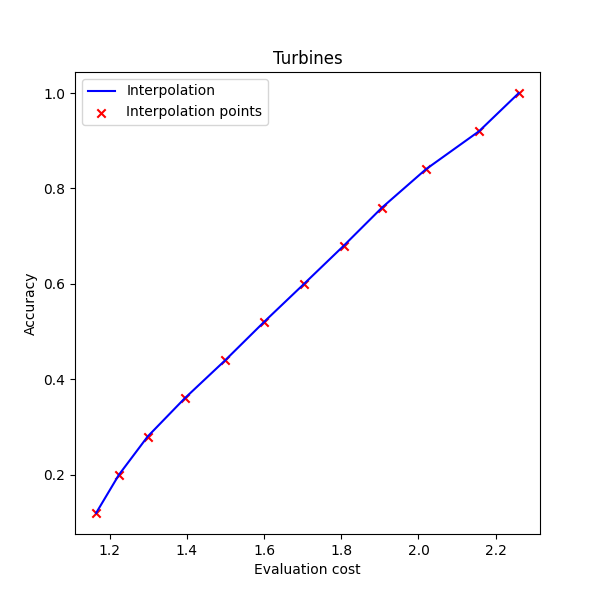
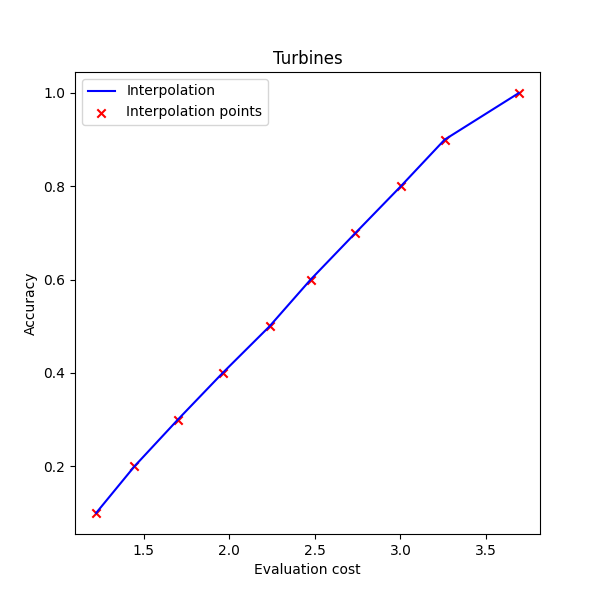
Update interpolation code and correct calculation of frequencies and sample sizes for bisection

diff --git a/experimentScripts_general/sample_size_bisection_method.py b/experimentScripts_general/sample_size_bisection_method.py
@@ -1,26 +1,30 @@
-# Mediante este scrip se calcula el tamaño de muestra de la poblacion que se debera tener en cuenta
-# a la hora de aplicar el metodo de biseccion en los heuristicos diseñados para Symbolic Regressor,
-# WindFLO, MuJoCo y Turbines. Al mismo tiempo, se indica con que frecuencia se deberan considerar 
-# las indicaciones del heuristico, para que el coste de aplicar el metodo de biseccion no supere
-# al coste predefinido.
+'''
+This scrip calculates the sample size of the population to be considered when applying the bisection
+method in the designed heuristics. At the same time, it is indicated how often the indications of the
+heuristic should be considered (to readjust accuracy), so that the cost of applying the bisection 
+method does not exceed a predefined time.
+'''
 
 #==================================================================================================
-# LIBRERIAS
+# LIBRARIES
 #==================================================================================================
 import pandas as pd
 import math
 import numpy as np
 
 #==================================================================================================
-# FUNCIONES
+# FUNCTIONS
 #==================================================================================================
-# FUNCION 1 (Obtener lista de puntos intermedios que se seleccionan en 4 iteraciones del metodo de 
-# biseccion, en el pero caso y en el caso medio)
 def bisection_middle_points(lower,upper,type_cost='max'):
+	'''
+	Obtain list of MIDpoints that are selected in 4 iterations of the bisection method, 
+	in the worst case and in the mean case.
+	'''
 	list=[] 
 	stop_threshold=(upper-lower)*0.1
 	max_value=upper
-	# Caso intermedio.
+
+	# Mean case.
 	if type_cost=='mean':
 		first=True
 		while abs(lower-upper)>stop_threshold:       
@@ -31,7 +35,8 @@ def bisection_middle_points(lower,upper,type_cost='max'):
 				first=False
 			else:
 				upper=middle
-	# En todas las iteraciones se acota el intervalo por abajo (caso mas costoso).
+
+	# Worst case: In all the iterations, the interval is bounded below.
 	if type_cost=='max':
 		while abs(lower-upper)>stop_threshold:       
 			middle=(lower+upper)/2
@@ -40,53 +45,47 @@ def bisection_middle_points(lower,upper,type_cost='max'):
 
 	return list+[max_value]
 
-# FUNCION 2 (Calcular el tamaño de muestra para el metodo de biseccion y la frecuencia con la que se debera 
-# tener en cuenta las indicaciones del heuristico que nos indica cuando debemos reajustar el accuracy)
-def sample_size_and_frequency(env_name,popsize,perc_cost,bisection_cost_type='max',only_bisection=True):
+def sample_size_and_frequency(env_name,popsize,perc_cost,bisection_cost_type='max'):
+	'''
+	Calculate the sample size for the bisection method and the frequency with which the indications 
+	of the heuristic should be accepted.'''
 
 	df_acc_eval_cost=pd.read_csv('results/data/'+str(env_name)+'/UnderstandingAccuracy/df_Bisection.csv')
 	time_list=bisection_middle_points(min(df_acc_eval_cost['cost_per_eval']),max(df_acc_eval_cost['cost_per_eval']),type_cost=bisection_cost_type)
 
-	# Coste de evaluar una poblacion con el maximo accuracy.
+	# Cost of evaluating a population with maximum accuracy.
 	cost_max_acc=time_list[-1]*popsize
 
-	# Coste de aplicar el metodo de biseccion sobre una poblacion.
-	if only_bisection:
-		cost_bisection=min_sample_size*sum(time_list)
-	else:
-		cost_bisection=min_sample_size*(sum(time_list)-time_list[-2])+popsize*time_list[-2]
+	# Cost of applying the bisection method on a population.
+	cost_bisection=min_sample_size*(sum(time_list)-time_list[-2])
 
-	# Porcentaje real.
+	# real percentage.
 	perc=cost_bisection/cost_max_acc
 
-	# Si el aplicar el metodo de biseccion sobrepasa el porcentaje de coste predefinido,
-	# definir la frecuencia con la que se le debera hacer caso al heuristico (cuando reajustar el accuracy).
+	# If applying the bisection method exceeds the predefined cost percentage, define how often 
+	# the heuristic should be heeded (when to readjust the accuracy).
 	if perc>perc_cost:
 		sample_size=min_sample_size
-		if only_bisection:
-			freq_gen=math.ceil(perc/perc_cost)
-		else:
-			freq_gen=math.ceil((cost_bisection-popsize*time_list[-2])/(perc_cost*cost_max_acc-popsize*time_list[-2]) )
+		freq_gen=math.ceil(perc/perc_cost)
 
-	# En otro caso.
+	# Otherwise.
 	else:
-		if only_bisection:
-			sample_size=int((perc_cost*cost_max_acc)/sum(time_list))
-		else:
-			sample_size=int((perc_cost*cost_max_acc-popsize*time_list[-2])/(sum(time_list)-time_list[-2]))
+		sample_size=int((perc_cost*cost_max_acc)/(sum(time_list)-time_list[-2]))
 		freq_gen=1
 	freq_time=freq_gen*cost_max_acc
 
 	return sample_size,freq_gen,freq_time
 
-# FUNCION 3 (Construir base de datos con la informacion de interes)
-def build_interest_info_df(list_envs_popsize,perc_cost,bisection_cost_type,only_bisection,csv_name):
+
+def build_interest_info_df(list_envs_popsize,perc_cost,bisection_cost_type):
+	'''Build database with the information of interest.'''
+
 	df=[]
 	for env_name in list(list_envs_popsize.keys()):
-		# Tamaño de poblacion.
+		# Population size.
 		popsize=list_envs_popsize[env_name]
 
-		# Numero de generaciones evaluadas con el maximo accuracy en el limite de tiempo prefijado para cada entorno.
+		# Number of generations evaluated with the maximum accuracy in the given time limit for each environment.
 		if env_name=='SymbolicRegressor':
 			df_max_acc=pd.read_csv('results/data/SymbolicRegressor/ConstantAccuracyAnalysis/df_train_acc1.0.csv',index_col=0)
 			n_gen=int(np.mean(list(df_max_acc.groupby('train_seed')['n_gen'].max())))
@@ -97,35 +96,28 @@ def build_interest_info_df(list_envs_popsize,perc_cost,bisection_cost_type,only_
 			df_max_acc=pd.read_csv('results/data/WindFLO/ConstantAccuracyAnalysis/df_ConstantAccuracyAnalysis1.0.csv',index_col=0)
 			n_gen=int(np.mean(list(df_max_acc.groupby('seed')['n_gen'].max())))
 		if env_name=='Turbines':
-			df_max_acc=pd.read_csv('results/data/Turbines/ConstantAccuracyAnalysis/df_ConstantAccuracyAnalysis1.0.csv',index_col=0)
+			df_max_acc=pd.read_csv('results/data/Turbines/ConstantAccuracyAnalysis/df_ConstantAccuracyAnalysis_acc1.0.csv',index_col=0)
 			n_gen=int(np.mean(list(df_max_acc.groupby('seed')['n_gen'].max())))
 
+		# Sample size for the bisection method and frequency with which the heuristic indications will be accepted.
+		sample_size,freq_gen,freq_time=sample_size_and_frequency(env_name,list_envs_popsize[env_name],perc_cost,bisection_cost_type=bisection_cost_type)
 
-		# Tamaño de muestra para el metodo de biseccion y frecuencia con la que se ejecutaran las ordenes del heuristico.
-		sample_size,freq_gen,freq_time=sample_size_and_frequency(env_name,list_envs_popsize[env_name],perc_cost,bisection_cost_type=bisection_cost_type,only_bisection=only_bisection)
-
-		# Añadir informacion a la base de datos.
+		# Add information to the database.
 		df.append([env_name,popsize,n_gen,sample_size,freq_gen,freq_time,str(int(n_gen/freq_gen))])
 
 	df=pd.DataFrame(df,columns=['env_name','popsize','n_gen_max_acc','sample_size','frequency_gen','frequency_time','max_update_acc'])
-	df.to_csv('results/data/general/sample_size_freq_'+str(csv_name)+'.csv')
+	df.to_csv('results/data/general/sample_size_freq.csv')
 
 #==================================================================================================
-# PROGRAMA PRINCIPAL
+# MAIN PROGRAM
 #==================================================================================================
-# Parametros.
-list_envs_popsize={'SymbolicRegressor':1000,'MuJoCo':20,'WindFLO':50}#,'Turbines':20}
-perc_total_cost=0.95 # Porcentaje del coste por defecto que se desea considerar para el coste de evaluar una poblacion al usar el metodo de biseccion.
-perc_bisec_cost=0.05 # Porcentaje del coste por defecto que se desea considerar unicamente para la aplicacion del metodo de biseccion.
-min_sample_size=10 # Tamaño minimo
+# pARAMETERS.
+list_envs_popsize={'SymbolicRegressor':1000,'MuJoCo':20,'WindFLO':50,'Turbines':20}
+perc_bisec_cost=0.25 # Percentage of the default cost to be considered only for the application of the bisection method.
+min_sample_size=10 # Minimum sample size.
 
-# Construir tabla para el caso en que el coste de aplicar la biseccion y evaluar despues la poblacion con
-# el accuracy seleccionado sea un 95% del coste que supone evaluar una poblacion entera por defecto.
-build_interest_info_df(list_envs_popsize,perc_total_cost,'mean',False,'BisectionAndPopulation')
-
-# Construir tabla para en el caso en que el coste de aplicar la biseccion sea como mucho un 5% mas 
-# que el coste de evaluar una poblacion por defecto.
-build_interest_info_df(list_envs_popsize,perc_total_cost,'max',True,'BisectionOnly')
+# Build table.
+build_interest_info_df(list_envs_popsize,perc_bisec_cost,'max')
 
 
 	

diff --git a/experimentScripts_general/interval_interpolation_bisection_method.py b/experimentScripts_general/interval_interpolation_bisection_method.py
@@ -1,16 +1,24 @@
-
+'''
+This script graphically represents two interpolations between the evaluation times and their 
+accuracy values: one is polynomial and the other is linear. The polynomial experiments are 
+stored in a database.
+'''
 
 #==================================================================================================
-# LIBRERIAS
+# LIBRARIES
 #==================================================================================================
 import numpy as np
 import pandas as pd
 import matplotlib.pyplot as plt
 
 #==================================================================================================
-# FUNCIONES
+# FUNCTIONS
 #==================================================================================================
 def polinomial_interpolation(x,y,var_name='m'):
+    '''
+    Obtain the polynomial expression that interpolates a set of points (the degree 
+    of the polynomial is equivalent to the cardinal of the set of points).
+    '''
     vandermonde=np.vander(x,increasing=True)
     coef=np.dot(np.linalg.inv(vandermonde),y)
     expression=''
@@ -23,6 +31,7 @@ def polinomial_interpolation(x,y,var_name='m'):
     return  expression
 
 def draw_expression(expression,x,y,env_name):
+    '''Graph the polynomial that interpolates a set of points.'''
     expression_x=np.arange(min(x),max(x)+(max(x)-min(x))/100,(max(x)-min(x))/100)
     expression_y=[]
     for m in expression_x:
@@ -40,7 +49,7 @@ def draw_expression(expression,x,y,env_name):
     plt.show()
 
 def draw_linear_interpolation(x,y,env_name):
-
+    '''Graph the polygonal line that interpolates a set of points.'''
     plt.figure(figsize=[6,6])
     ax=plt.subplot(111)
     plt.plot(x,y,color='blue',label='Interpolation')
@@ -54,12 +63,12 @@ def draw_linear_interpolation(x,y,env_name):
 
 
 #==================================================================================================
-# PROGRAMA PRINCIPAL
+# MAIN PROGRAM
 #==================================================================================================
 list_env_names=['SymbolicRegressor','WindFLO','MuJoCo','Turbines']
 df=[]
 
-# Interpolacion polinomial.
+# Polynomial interpolation.
 for env_name in list_env_names:
     df_acc_eval_cost=pd.read_csv('results/data/'+str(env_name)+'/UnderstandingAccuracy/df_Bisection.csv')
     expression=polinomial_interpolation(df_acc_eval_cost['cost_per_eval'],df_acc_eval_cost['accuracy'])
@@ -70,7 +79,7 @@ for env_name in list_env_names:
 df=pd.DataFrame(df,columns=['env_name','interpolation_expression','inverse_expression','lower_time','upper_time'])
 df.to_csv('results/data/general/bisection_interval_PolinomialInterpolation.csv')
 
-# Interpolacion lineal.
+# Linear interpolation.
 for env_name in list_env_names:
     df_acc_eval_cost=pd.read_csv('results/data/'+str(env_name)+'/UnderstandingAccuracy/df_Bisection.csv')
     draw_linear_interpolation(df_acc_eval_cost['cost_per_eval'],df_acc_eval_cost['accuracy'],env_name)
